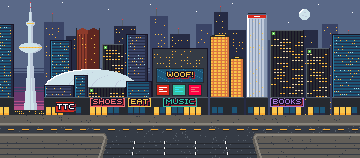
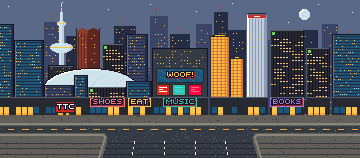
Stand Yonge Street's CN Tower behind the SkyDome: its slender shaft rises from behind the dome's left flank, a low dark block between them, the glass tower it displaced in its old column, and an ink line along the dome's top arc so the two light landmarks read apart

diff --git a/art/tools/backdrops.py b/art/tools/backdrops.py
@@ -1536,8 +1536,8 @@ def skyline(cv, towers):
 
 def skydome(cv, x, w, wall, ry):
     """The SkyDome far off, in the far landmarks' haze: a dome ry rows tall on row wall, its four panels'
-    seams lgrey arcs nested at its right foot, lit white along its upper left. Its foot stays hidden
-    behind the nearer towers."""
+    seams lgrey arcs nested at its right foot, lit white along its upper left, an ink line along its top
+    arc so it reads apart from light scenery behind it. Its foot stays hidden behind the nearer towers."""
     rx = w / 2
 
     def inside(px, py, r):
@@ -1553,6 +1553,14 @@ def skydome(cv, x, w, wall, ry):
                 if inside(px, py, r) and not inside(px - 1, py, r):
                     c = "lgrey"
             cv.fill(px, py, 1, 1, c)
+    for px in range(x, x + w):
+        rim = next((py for py in range(wall - ry, wall) if inside(px, py, rx)), None)
+        if rim is not None:
+            cv.fill(px, rim - 1, 1, 1, "ink")
+            if px > x and not inside(px - 1, rim, rx):
+                cv.fill(px - 1, rim, 1, 1, "ink")
+            if px < x + w - 1 and not inside(px + 1, rim, rx):
+                cv.fill(px + 1, rim, 1, 1, "ink")
     cv.fill(x, wall, w, 3, "lgrey")
     for ax in range(x + 3, x + w - 3, 5):
         cv.fill(ax, wall + 1, 3, 1, "gold")
@@ -1686,18 +1694,20 @@ def yonge():
                  (268, 16, 40, "dslate"), (300, 18, 30, "navy"), (322, 16, 24, "dslate"), (342, 20, 38, "navy")))
     for cx, top, h in ((52, 22, 9), (122, 26, 7), (156, 16, 8), (178, 34, 6), (220, 12, 6), (348, 38, 8)):
         mast(cv, cx, top - h, h)
-    # behind the SkyDome, lit towers; then, far off in a lighter haze, the CN Tower, the tallest thing on
-    # the skyline, its whole shaft clear in a gap down to the far city's lights over its foot, and the
-    # SkyDome large beside it
-    glass_tower(cv, 50, 22, 40, 7)
+    # behind the SkyDome, lit towers and, far off in a lighter haze, the CN Tower, the tallest thing on
+    # the skyline, its slender shaft rising from behind the dome's left flank; a low dark block between
+    # the shaft and the dome keeps the two light shapes apart; then the SkyDome, large, in front
+    glass_tower(cv, 14, 30, 40, 7)
     scotia(cv, 76, 24, 28)
     dominion(cv, 102, 22, 44, 5)
     glass_tower(cv, 126, 22, 34, 8, "dslate")
-    cn_tower(cv, 30, BASE, 2)
+    cn_tower(cv, 61, BASE, 2)
+    cv.fill(48, 65, 26, BASE - 65, "coal")
+    outline_box(cv, 48, 65, 26, BASE - 64, "ink")
+    cv.fill(49, 66, 24, 1, "ash")
+    lit(cv, 51, 72, 68, 78, "dome-block", 0.45, ("amber", "ochre"), (3, 3))
     skydome(cv, 44, 94, BASE - 26, 20)
-    cv.fill(14, BASE - 5, 32, 5, "coal")
-    lit(cv, 15, 45, BASE - 4, BASE, "lakeshore", 0.35, ("gold", "amber"), (2, 2))
-    # the nearer towers: dark glass left of the CN Tower and up to the SkyDome's lower half; then, down to
+    # the nearer towers: dark glass on the left and up to the SkyDome's lower half; then, down to
     # the street, the Yonge-Dundas screens, the Royal Bank Plaza's gold pair, First Canadian Place, the TD
     # Centre's black pair and glass, each with neon over its street level
     glass_tower(cv, -4, 18, 24, 4)
@@ -1712,7 +1722,7 @@ def yonge():
     dominion(cv, 270, 34, 30, 1)
     dominion(cv, 306, 24, 48, 2)
     glass_tower(cv, 332, 32, 34, 3)
-    for k, (x, w, sign) in enumerate(((-4, 18, None), (44, 30, None), (74, 14, None),
+    for k, (x, w, sign) in enumerate(((-4, 18, None), (14, 30, None), (44, 30, None), (74, 14, None),
                                       (88, 38, ("SHOES", "pink")), (126, 26, ("EAT", "gold")),
                                       (CX - 28, 56, ("MUSIC", "turquoise")), (210, 20, None), (230, 14, None),
                                       (246, 22, None), (270, 34, ("BOOKS", "lilac")), (306, 24, None),

diff --git a/art/style-guide.md b/art/style-guide.md
@@ -449,14 +449,14 @@ Above the far side's front row the scenery goes back in depth, not taller: hills
 
 The six Toronto backdrops (`backdrop-<id>`), each started from the Maplewood backdrop it replaced:
 
-| Neighborhood        | Front row                                                                                                                                                                                                                                                                                                                                               | Depth behind it                                                                                                                                                                                                                                                                                                                                                                                                                                                   |
-| ------------------- | ------------------------------------------------------------------------------------------------------------------------------------------------------------------------------------------------------------------------------------------------------------------------------------------------------------------------------------------------------- | ----------------------------------------------------------------------------------------------------------------------------------------------------------------------------------------------------------------------------------------------------------------------------------------------------------------------------------------------------------------------------------------------------------------------------------------------------------------- |
-| Cabbagetown         | Brick bay-and-gable houses round the crescent, white bargeboards, iron fences, gas lamps                                                                                                                                                                                                                                                                | The Necropolis chapel's brick tower and slate spire between the roofs; dbrick roofs up a leafy rise, windows lit gold                                                                                                                                                                                                                                                                                                                                             |
-| Distillery District | Brick warehouses and a limestone mill, arched windows lit gold, the DISTILLERY sign; I.T., the steel spider, in the lane                                                                                                                                                                                                                                | The chimney stack and a water tower; string lights between the buildings                                                                                                                                                                                                                                                                                                                                                                                          |
-| High Park           | The park gate (HIGH PARK on a pine board), black lanterns, the trail on through it, a hot dog cart by the gate                                                                                                                                                                                                                                          | Grenadier Pond with reeds, cherries in blossom along its far bank and petals on the water; the castle playground's towers over the trees; dense pine and canopy groves                                                                                                                                                                                                                                                                                            |
-| Kensington Market   | Painted Victorians turned shops (FRUIT, CHEESE, VINTAGE, SPICES, COFFEE) in deep paint (dturq, violet, ochre, olive, mauve) with lake glass and cream-striped awnings, bunting, crates, the Garden Car in rust, overgrown with plants                                                                                                                   | Back-lane rooftops; laneway walls at both ends of the street painted with murals, a dog's face in each                                                                                                                                                                                                                                                                                                                                                            |
-| The Beaches         | Sand with umbrellas and the Leuty Lifeguard Station under its red roof; the R.C. Harris Water Treatment Plant on its lawn at the east end                                                                                                                                                                                                               | Lake Ontario to the horizon: dark far water, shallows, foam lines, sails                                                                                                                                                                                                                                                                                                                                                                                          |
-| Yonge Street        | A wall of skyscrapers filling most of the sky, above row 45, neon over their street level (SHOES, EAT, MUSIC, BOOKS): dark glass and steel on the left, the Yonge-Dundas screens (WOOF!), the Royal Bank Plaza's gold pair, First Canadian Place in white under its red band, the tallest office tower, the TD Centre's black pair, glass; the TTC sign | Lit towers behind the SkyDome, Scotia Plaza's red granite among them; far back, dark navy and dslate towers with a few windows lit and rooftop antennas; far off in a lighter haze, the CN Tower, the tallest thing on the skyline, rising to the top rows with its whole slender shaft clear in a gap, the main pod 60% of the way up, the SkyPod and the antenna, and the SkyDome large beside its foot; the moon in a sky gap; `ambient-plane` crosses the sky |
+| Neighborhood        | Front row                                                                                                                                                                                                                                                                                                                                               | Depth behind it                                                                                                                                                                                                                                                                                                                                                                                                                                                                                                                                                                                          |
+| ------------------- | ------------------------------------------------------------------------------------------------------------------------------------------------------------------------------------------------------------------------------------------------------------------------------------------------------------------------------------------------------- | -------------------------------------------------------------------------------------------------------------------------------------------------------------------------------------------------------------------------------------------------------------------------------------------------------------------------------------------------------------------------------------------------------------------------------------------------------------------------------------------------------------------------------------------------------------------------------------------------------- |
+| Cabbagetown         | Brick bay-and-gable houses round the crescent, white bargeboards, iron fences, gas lamps                                                                                                                                                                                                                                                                | The Necropolis chapel's brick tower and slate spire between the roofs; dbrick roofs up a leafy rise, windows lit gold                                                                                                                                                                                                                                                                                                                                                                                                                                                                                    |
+| Distillery District | Brick warehouses and a limestone mill, arched windows lit gold, the DISTILLERY sign; I.T., the steel spider, in the lane                                                                                                                                                                                                                                | The chimney stack and a water tower; string lights between the buildings                                                                                                                                                                                                                                                                                                                                                                                                                                                                                                                                 |
+| High Park           | The park gate (HIGH PARK on a pine board), black lanterns, the trail on through it, a hot dog cart by the gate                                                                                                                                                                                                                                          | Grenadier Pond with reeds, cherries in blossom along its far bank and petals on the water; the castle playground's towers over the trees; dense pine and canopy groves                                                                                                                                                                                                                                                                                                                                                                                                                                   |
+| Kensington Market   | Painted Victorians turned shops (FRUIT, CHEESE, VINTAGE, SPICES, COFFEE) in deep paint (dturq, violet, ochre, olive, mauve) with lake glass and cream-striped awnings, bunting, crates, the Garden Car in rust, overgrown with plants                                                                                                                   | Back-lane rooftops; laneway walls at both ends of the street painted with murals, a dog's face in each                                                                                                                                                                                                                                                                                                                                                                                                                                                                                                   |
+| The Beaches         | Sand with umbrellas and the Leuty Lifeguard Station under its red roof; the R.C. Harris Water Treatment Plant on its lawn at the east end                                                                                                                                                                                                               | Lake Ontario to the horizon: dark far water, shallows, foam lines, sails                                                                                                                                                                                                                                                                                                                                                                                                                                                                                                                                 |
+| Yonge Street        | A wall of skyscrapers filling most of the sky, above row 45, neon over their street level (SHOES, EAT, MUSIC, BOOKS): dark glass and steel on the left, the Yonge-Dundas screens (WOOF!), the Royal Bank Plaza's gold pair, First Canadian Place in white under its red band, the tallest office tower, the TD Centre's black pair, glass; the TTC sign | Lit towers behind the SkyDome, Scotia Plaza's red granite among them; far back, dark navy and dslate towers with a few windows lit and rooftop antennas; far off in a lighter haze, the CN Tower, the tallest thing on the skyline, rising to the top rows, its slender shaft clear from behind the SkyDome's left flank up to the main pod 60% of the way up, then the SkyPod and the antenna; a low dark block between the shaft and the dome; the SkyDome large in front, an ink line along its top arc so the two light landmarks read apart; the moon in a sky gap; `ambient-plane` crosses the sky |
 
 Darkness varies between them: The Beaches is bright and open, Cabbagetown and the Distillery District in between, Yonge Street an evening downtown on dark concrete, Kensington Market dark all through (a deep teal sky, earthy paint and a dbrick road between dark verges) and High Park darkest, under its canopy.
 
